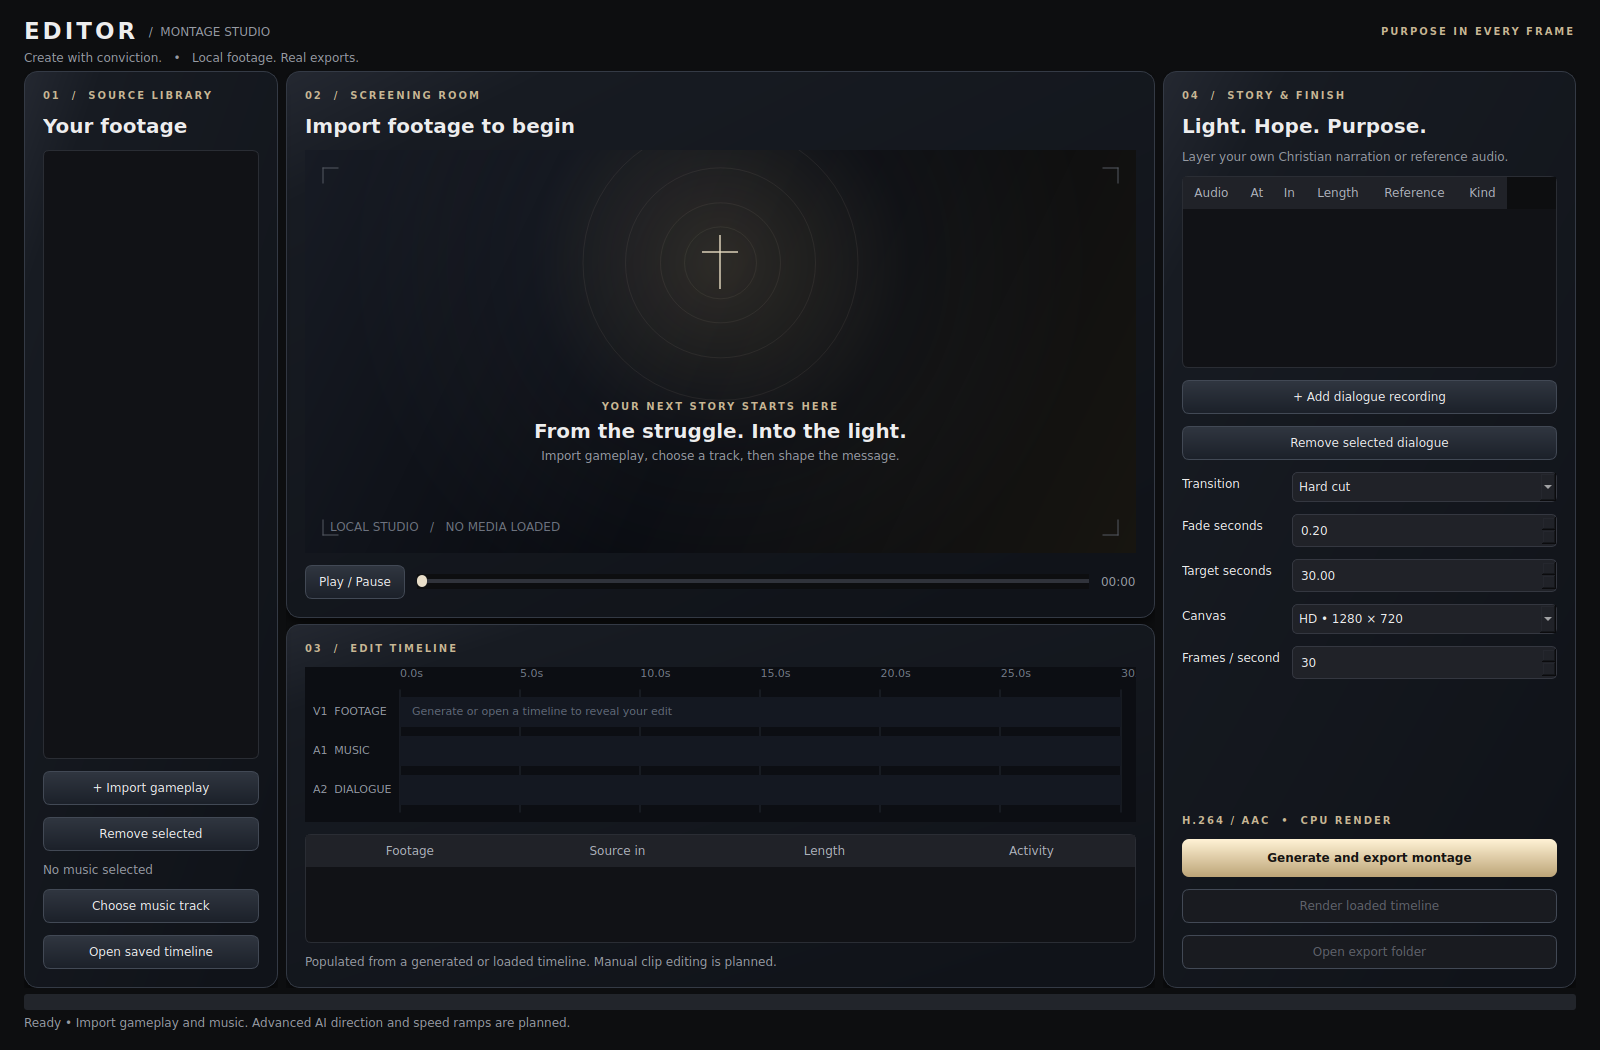
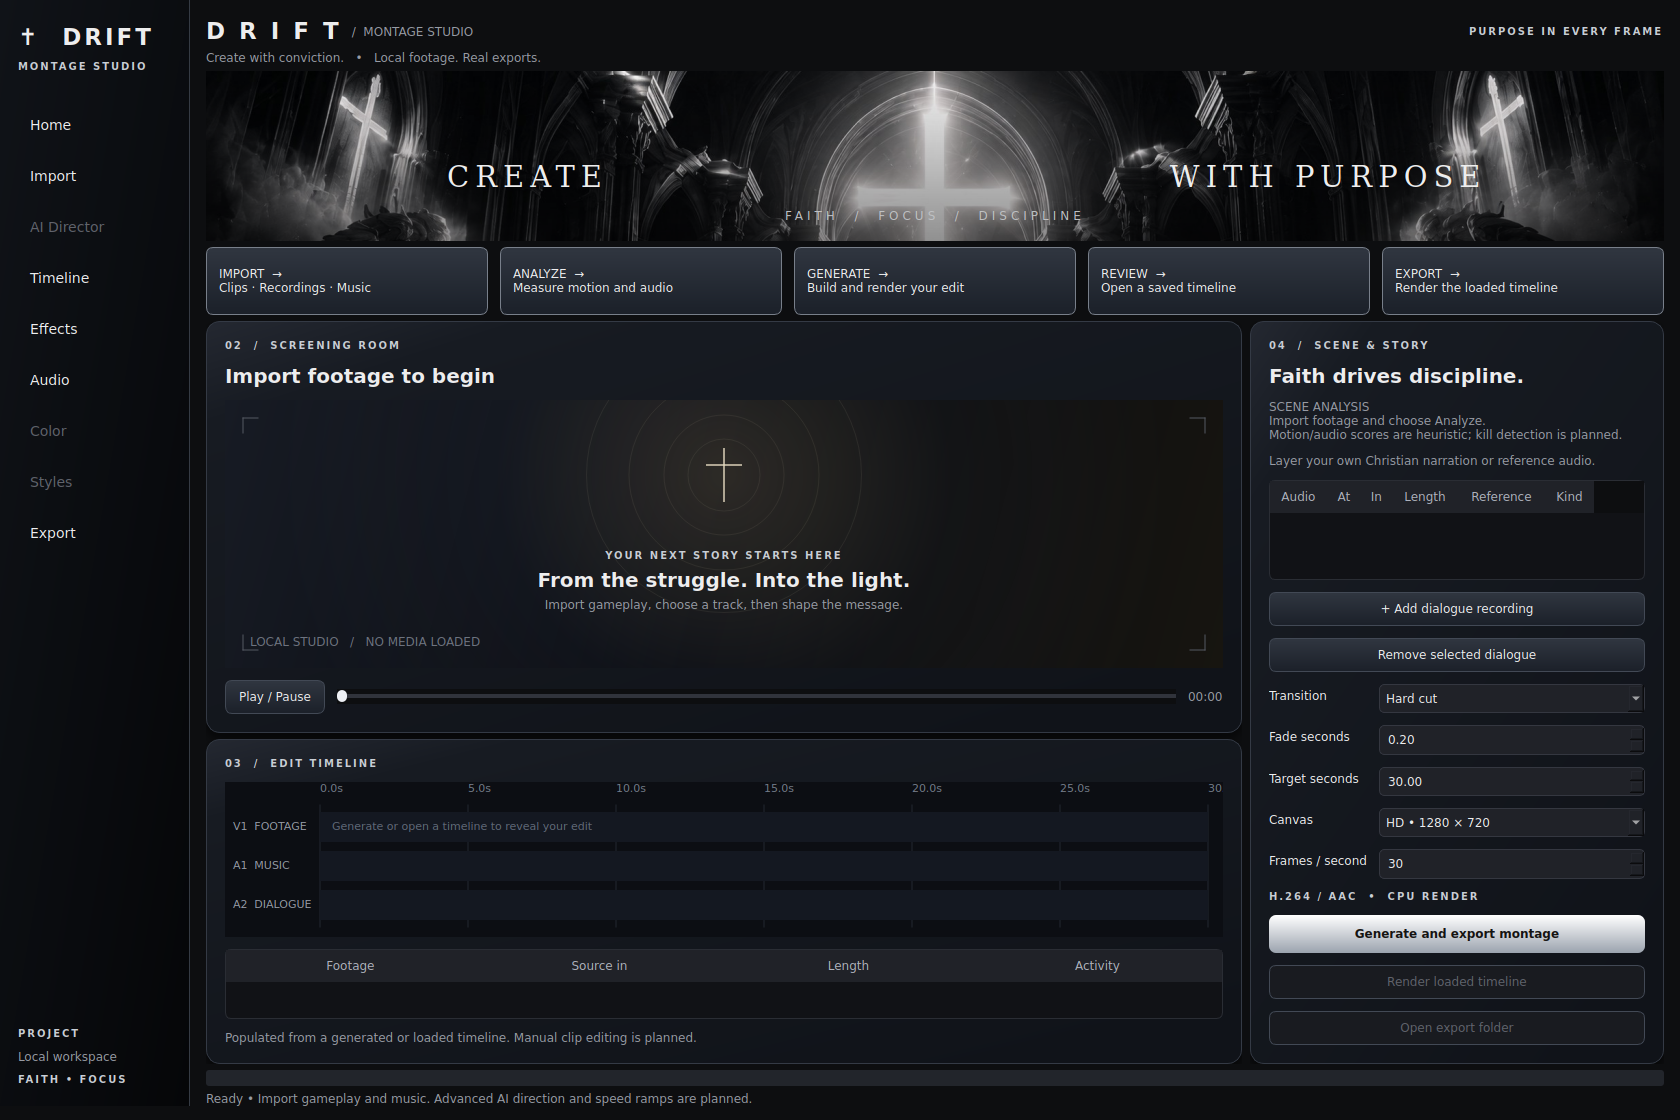
Rebuild DRIFT workspace around supplied cathedral UI reference

diff --git a/src/montage_editor/desktop.py b/src/montage_editor/desktop.py
@@ -12,27 +12,31 @@ from PySide6.QtWidgets import (QApplication, QMainWindow, QWidget, QVBoxLayout, 
     QComboBox, QTableWidget, QTableWidgetItem, QHeaderView, QSplitter, QProgressBar,
     QMessageBox, QSlider, QFrame, QStackedWidget, QGraphicsDropShadowEffect)
 
-from .workspace_widgets import CinemaCanvas, TimelineLanes
+from .workspace_widgets import CinemaCanvas, TimelineLanes, CathedralBanner
 from .config import Settings
-from .pipeline import Timeline, create_montage, render
+from .pipeline import Timeline, create_montage, render, probe, analyze_gameplay
 
 STYLE = '''
 QWidget { background:#0d0e10; color:#ededee; font-family:Inter,Segoe UI,sans-serif; font-size:12px; }
 QMainWindow {background:#090a0c;} QFrame#panel {background:qlineargradient(x1:0,y1:0,x2:0.8,y2:1,stop:0 #242831,stop:0.15 #171b22,stop:1 #101319);border:1px solid #343a45;border-radius:14px;}
 QLabel {background:transparent;} QLabel#brand {font-size:23px;font-weight:700;letter-spacing:3px;}
 QLabel#title {font-size:20px;font-weight:600;} QLabel#muted {color:#979ba4;}
-QLabel#eyebrow {color:#c9b794;font-size:10px;font-weight:600;letter-spacing:2px;}
+QLabel#eyebrow {color:#c9ced5;font-size:10px;font-weight:600;letter-spacing:2px;}
 QPushButton {background:qlineargradient(x1:0,y1:0,x2:0,y2:1,stop:0 #303640,stop:1 #1b2029);border:1px solid #424955;border-radius:7px;padding:9px 13px;}
 QPushButton:hover {background:#30333b;border-color:#777b86;}
 QPushButton:disabled {color:#60636c;background:#191b20;}
-QPushButton#primary {background:qlineargradient(x1:0,y1:0,x2:0,y2:1,stop:0 #fff2d5,stop:1 #bca477);color:#151311;font-weight:700;border:0;padding:12px;}
+QPushButton#primary {background:qlineargradient(x1:0,y1:0,x2:0,y2:1,stop:0 #ffffff,stop:1 #9ba3ae);color:#151311;font-weight:700;border:0;padding:12px;}
 QListWidget,QTableWidget {background:#111216;border:1px solid #2a2d34;border-radius:6px;alternate-background-color:#181a20;}
 QHeaderView::section {background:#202228;color:#aeb2bc;border:0;padding:7px;}
 QLineEdit,QSpinBox,QDoubleSpinBox,QComboBox {background:#202228;border:1px solid #343740;border-radius:5px;padding:6px;}
 QProgressBar {border:0;background:#22252b;border-radius:3px;height:5px;}
-QProgressBar::chunk {background:#c9b794;}
+QProgressBar::chunk {background:#c9ced5;}
 QSlider::groove:horizontal {height:4px;background:#30333b;}
-QSlider::handle:horizontal {background:#e8ddc8;width:10px;margin:-4px 0;border-radius:5px;}
+QSlider::handle:horizontal {background:#edf0f4;width:10px;margin:-4px 0;border-radius:5px;}
+QFrame#rail {background:qlineargradient(x1:0,y1:0,x2:1,y2:1,stop:0 #101318,stop:1 #050608);border-right:1px solid #353b44;}
+QPushButton#nav {text-align:left;background:transparent;border:0;padding:12px;font-size:14px;}
+QPushButton#nav:hover {background:#2a3038;border:1px solid #aeb4be;}
+QPushButton#workflow {border:1px solid #787f8a;font-size:12px;text-align:left;padding:12px;}
 QSplitter::handle {background:#0d0e10;width:8px;height:8px;}
 '''
 
@@ -74,25 +78,58 @@ class RenderJob(QThread):
 class Studio(QMainWindow):
     def __init__(self):
         super().__init__()
-        self.setWindowTitle('Editor • Montage Studio')
-        self.resize(1600,1050)
-        self.setMinimumSize(1100,760)
+        self.setWindowTitle('DRIFT • Montage Studio')
+        self.resize(1680,1120)
+        self.setMinimumSize(1280,950)
         self.music_path = None
         self.timeline = None
         self.last_output = None
         self.job = None
         root = QWidget()
         self.setCentralWidget(root)
-        layout = QVBoxLayout(root)
-        layout.setContentsMargins(24,18,24,20)
+        outer = QHBoxLayout(root)
+        outer.setContentsMargins(0,0,16,14); outer.setSpacing(16)
+        rail=QFrame(); rail.setObjectName('rail'); rail.setFixedWidth(190)
+        rail_layout=QVBoxLayout(rail); rail_layout.setContentsMargins(18,24,18,20); rail_layout.setSpacing(10)
+        rail_layout.addWidget(label('✝  DRIFT','brand'))
+        rail_layout.addWidget(label('MONTAGE STUDIO','eyebrow'))
+        rail_layout.addSpacing(22)
+        for name,callback in [('Home',lambda:self.screen.setCurrentIndex(0)),
+                              ('Import',self.import_media),('AI Director',None),
+                              ('Timeline',lambda:self.timeline_table.setFocus()),
+                              ('Effects',lambda:self.transition.setFocus()),
+                              ('Audio',self.import_music),('Color',None),('Styles',None),
+                              ('Export',self.export)]:
+            button=QPushButton(name);button.setObjectName('nav')
+            if callback:button.clicked.connect(callback)
+            else:button.setEnabled(False);button.setToolTip('Planned — not yet implemented')
+            rail_layout.addWidget(button)
+        rail_layout.addStretch()
+        rail_layout.addWidget(label('PROJECT','eyebrow'))
+        rail_layout.addWidget(label('Local workspace','muted'))
+        rail_layout.addWidget(label('FAITH • FOCUS','eyebrow'))
+        outer.addWidget(rail)
+        body=QWidget(); outer.addWidget(body,1)
+        layout = QVBoxLayout(body)
+        layout.setContentsMargins(0,18,0,0)
         header = QHBoxLayout()
-        header.addWidget(label('EDITOR', 'brand'))
+        header.addWidget(label('D R I F T', 'brand'))
         header.addWidget(label(' /  MONTAGE STUDIO', 'muted'))
         header.addStretch()
         header.addWidget(label('PURPOSE IN EVERY FRAME', 'eyebrow'))
         layout.addLayout(header)
         subtitle = label('Create with conviction.   •   Local footage. Real exports.', 'muted')
         layout.addWidget(subtitle)
+        self.banner=CathedralBanner(); layout.addWidget(self.banner)
+        steps=QHBoxLayout(); steps.setSpacing(12)
+        for title,detail,callback in [('IMPORT','Clips · Recordings · Music',self.import_media),
+                                      ('ANALYZE','Measure motion and audio',self.analyze_sources),
+                                      ('GENERATE','Build and render your edit',self.export),
+                                      ('REVIEW','Open a saved timeline',self.load_timeline),
+                                      ('EXPORT','Render the loaded timeline',self.replay_export)]:
+            card=QPushButton(title+'  →\n'+detail); card.setObjectName('workflow')
+            card.setMinimumHeight(68);card.clicked.connect(callback);steps.addWidget(card,1)
+        layout.addLayout(steps)
         workspace = QSplitter(Qt.Horizontal)
         layout.addWidget(workspace,1)
         assets,left = panel()
@@ -115,7 +152,9 @@ class Studio(QMainWindow):
         load = QPushButton('Open saved timeline')
         load.clicked.connect(self.load_timeline)
         left.addWidget(load)
+        self.assets_panel=assets
         workspace.addWidget(assets)
+        assets.hide()
         center = QWidget()
         column = QVBoxLayout(center)
         column.setContentsMargins(0,0,0,0)
@@ -124,7 +163,7 @@ class Studio(QMainWindow):
         self.preview_title = label('Import footage to begin','title')
         view.addWidget(self.preview_title)
         self.video = QVideoWidget()
-        self.video.setMinimumHeight(280)
+        self.video.setMinimumHeight(210)
         self.screen = QStackedWidget()
         empty = CinemaCanvas(); empty_layout = QVBoxLayout(empty)
         empty_layout.addStretch(3)
@@ -171,13 +210,15 @@ class Studio(QMainWindow):
         column.addWidget(timeline,2)
         workspace.addWidget(center)
         inspector,right = panel()
-        right.addWidget(label('04  /  STORY & FINISH','eyebrow'))
-        right.addWidget(label('Light. Hope. Purpose.','title'))
+        right.addWidget(label('04  /  SCENE & STORY','eyebrow'))
+        right.addWidget(label('Faith drives discipline.','title'))
+        self.analysis_label=label('SCENE ANALYSIS\nImport footage and choose Analyze.\nMotion/audio scores are heuristic; kill detection is planned.','muted')
+        self.analysis_label.setWordWrap(True);right.addWidget(self.analysis_label)
         right.addWidget(label('Layer your own Christian narration or reference audio.','muted'))
         self.dialogue = QTableWidget(0,6)
         self.dialogue.setHorizontalHeaderLabels(['Audio','At','In','Length','Reference','Kind'])
         self.dialogue.horizontalHeader().setSectionResizeMode(QHeaderView.ResizeToContents)
-        self.dialogue.setMinimumHeight(140)
+        self.dialogue.setMinimumHeight(100)
         self.dialogue.setToolTip('Editable timing in seconds. Reference is metadata, not a rendered caption.')
         right.addWidget(self.dialogue)
         add = QPushButton('+ Add dialogue recording')
@@ -215,7 +256,7 @@ class Studio(QMainWindow):
         self.open_button.setEnabled(False); self.open_button.clicked.connect(self.open_export)
         right.addWidget(self.open_button)
         workspace.addWidget(inspector)
-        workspace.setSizes([240,820,390])
+        workspace.setSizes([220,1000,400])
         self.progress = QProgressBar(); self.progress.setRange(0,1); self.progress.setValue(0); self.progress.setTextVisible(False)
         layout.addWidget(self.progress)
         self.status = label('Ready • Import gameplay and music. Advanced AI direction and speed ramps are planned.','muted')
@@ -223,13 +264,40 @@ class Studio(QMainWindow):
         self.footage.currentTextChanged.connect(self.preview_file)
         self.player.errorOccurred.connect(lambda error,message:self.status.setText('Preview: '+message))
 
+    def replay_export(self):
+        if self.timeline is None:
+            QMessageBox.information(self,'Open a project','Generate or open a timeline first.');return
+        self.export(replay=True)
+
+    def analyze_sources(self):
+        if self.job is not None:return
+        sources=[self.footage.item(i).text() for i in range(self.footage.count())]
+        if not sources:
+            QMessageBox.information(self,'Import footage','Add gameplay before analyzing.');return
+        settings=Settings()
+        def analyze():
+            return [candidate for path in sources for candidate in analyze_gameplay(probe(path),settings)]
+        self.job=RenderJob(analyze)
+        self.progress.setRange(0,0);self.status.setText('Analyzing source motion and audio activity…')
+        self.export_button.setEnabled(False);self.replay_button.setEnabled(False)
+        self.job.done.connect(self.show_analysis);self.job.failed.connect(self.failed);self.job.finished.connect(self.finished)
+        self.job.start()
+
+    def show_analysis(self,candidates):
+        ranked=sorted(candidates,key=lambda c:-c['score'])
+        if ranked:
+            top=ranked[0]
+            self.analysis_label.setText(f"SCENE ANALYSIS\n{len(ranked)} candidate moments\nTop activity: {top['score']:.3f} (not confidence)\n{Path(top['source']).name} at {top['time']:.2f}s\nSemantic game-event detection is planned.")
+        self.status.setText(f'Analysis complete • {len(ranked)} motion/audio candidate moments. Ready to generate.')
+
     def import_media(self):
         files,_ = QFileDialog.getOpenFileNames(self,'Import gameplay','','Video (*.mp4 *.mkv *.mov *.webm);;All files (*)')
         existing = {self.footage.item(i).text() for i in range(self.footage.count())}
         for path in files:
             if path not in existing:
                 self.footage.addItem(path); existing.add(path)
-        if self.footage.count(): self.footage.setCurrentRow(0)
+        if self.footage.count():
+            self.assets_panel.show(); self.footage.setCurrentRow(0)
 
     def import_music(self):
         path,_ = QFileDialog.getOpenFileName(self,'Choose music','','Audio (*.wav *.mp3 *.flac *.m4a);;All files (*)')

diff --git a/src/montage_editor/workspace_widgets.py b/src/montage_editor/workspace_widgets.py
@@ -82,3 +82,26 @@ class TimelineLanes(QWidget):
             block(cue.at,cue.duration,2,cue.reference or Path(cue.source).name,'#536960','#293e35')
         x=left+width*max(0,min(total,self.position))/total
         p.setPen(QPen(QColor('#f1e2c0'),2));p.drawLine(int(x),20,int(x),self.height()-5)
+
+
+class CathedralBanner(QWidget):
+    def __init__(self):
+        super().__init__()
+        from PySide6.QtGui import QPixmap
+        self.art=QPixmap(str(Path(__file__).parent/'resources'/'cathedral.jpg'))
+        self.setMinimumHeight(170);self.setMaximumHeight(220)
+
+    def paintEvent(self,event):
+        p=QPainter(self);p.setRenderHint(QPainter.Antialiasing)
+        if not self.art.isNull():
+            scaled=self.art.scaled(self.size(),Qt.KeepAspectRatioByExpanding,Qt.SmoothTransformation)
+            p.drawPixmap((self.width()-scaled.width())//2,0,scaled)
+        else:p.fillRect(self.rect(),QColor('#101216'))
+        shade=QLinearGradient(0,0,0,self.height());shade.setColorAt(0,QColor(0,0,0,10));shade.setColorAt(1,QColor(0,0,0,110))
+        p.fillRect(self.rect(),shade)
+        p.setPen(QColor('#eeeeee'));font=QFont('Georgia',22);font.setLetterSpacing(QFont.AbsoluteSpacing,6);p.setFont(font)
+        y=self.height()*.5
+        p.drawText(QRectF(30,y,self.width()*.4,42),Qt.AlignCenter,'CREATE')
+        p.drawText(QRectF(self.width()*.58,y,self.width()*.4-30,42),Qt.AlignCenter,'WITH PURPOSE')
+        font=QFont('Segoe UI',9);font.setLetterSpacing(QFont.AbsoluteSpacing,4);p.setFont(font);p.setPen(QColor('#bfc1c4'))
+        p.drawText(QRectF(0,self.height()-38,self.width(),25),Qt.AlignCenter,'FAITH  /  FOCUS  /  DISCIPLINE')

diff --git a/tests/desktop_checks.py b/tests/desktop_checks.py
@@ -23,6 +23,15 @@ class DesktopTests(unittest.TestCase):
         self.assertEqual(window.story()['dialogue'][0]['at'],1)
         window.close()
 
+    def test_reference_workspace_and_real_analysis(self):
+        window=Studio()
+        self.assertFalse(window.banner.art.isNull())
+        window.show_analysis([dict(source='source.mp4',time=2.5,score=.8)])
+        self.assertIn('0.800 (not confidence)',window.analysis_label.text())
+        window.show(); self.app.processEvents()
+        self.assertFalse(window.grab().isNull())
+        window.close()
+
     def test_background_job_reports_failures(self):
         errors=[]
         def fail(): raise ValueError('invalid media')

diff --git a/docs/DEVELOPMENT_LOG.md b/docs/DEVELOPMENT_LOG.md
@@ -41,3 +41,10 @@
 - Added code-native cinematic light/cross canvas, concentric depth details, gradient panel surfaces, soft shadows and raised controls. No generated fake footage.
 - Added actual video/music/dialogue timeline lanes with time ruler and export seek. Empty lanes are clearly empty; no fabricated waveform or events. Added module launch support (`python -m montage_editor.desktop`).
 - Offscreen desktop tests pass; refreshed screenshot inspected. Audible playback and Windows remain unvalidated.
+
+## 2026-10-01 — User-supplied DRIFT reference redesign
+- Read uploaded image(5).png directly from scratch. Adopted DRIFT branding, left navigation, cathedral/cross hero, monochrome raised surfaces, five workflow cards, wide preview and scene/story inspector.
+- Generated original cathedral backdrop using built-in image generation with the user's image as style/composition reference, not an edit target. Packaged compressed resource at src/montage_editor/resources/cathedral.jpg; user reference itself is not committed.
+- Implemented separate background Analyze action returning real motion/audio candidates and displaying top activity/time; score explicitly not semantic confidence. Preserved working import/music/dialogue/render workflows. Unimplemented AI Director/Color/Styles navigation disabled.
+- Source library reveals after media import; initial home layout prioritizes the reference composition. Actual timeline lanes remain connected to stored data. Empty preview is clearly empty; no fabricated gameplay/waveforms.
+- Validation: three offscreen desktop checks passed; compileall passed; built wheel and verified packaged cathedral asset; final screenshot inspected. Windows/device playback remain unvalidated. Advanced effect and semantic AI controls from reference still planned.

diff --git a/docs/UI_ASSETS.md b/docs/UI_ASSETS.md
@@ -1,0 +1,7 @@
+# UI assets
+
+`src/montage_editor/resources/cathedral.jpg` is an original generated application backdrop, created using the built-in image-generation tool. It is package data, not a screenshot of the reference or external gameplay. The user-provided image was a style/composition reference only and is not committed.
+
+Generation prompt: “Generate just the cinematic cathedral artwork, NO UI, NO TEXT, NO BUTTONS, NO LETTERS, no watermark. Wide panoramic monochrome gothic cathedral interior, ornate soaring arches and weathered angel statues at both sides, massive luminous white Christian cross centered deep in nave, mist, volumetric rays, tiny human silhouette for scale, polished black and silver tones, dramatic deep blacks. Similar atmospheric realism to the top cathedral hero in the reference. Preserve broad darker zones on either side of cross for overlay headings. Detailed high-end film matte painting. Wide landscape composition.”
+
+`docs/ui-preview.png` is a screenshot of the actual desktop home layout without user footage, not an AI-generated screenshot. Regenerate using an offscreen QApplication and Studio.grab(). The home backdrop is decorative; it is not exported into gameplay montages automatically.

diff --git a/README.md b/README.md
@@ -65,3 +65,5 @@ Desktop controls are tested offscreen on Linux; physical audio playback and Wind
 ![Desktop workspace](docs/ui-preview.png)
 
 Linux desktop dependencies include `libegl1`, `libgl1`, `libopengl0` and `libpulse0` (Ubuntu packages). The desktop CI explicitly installs these; missing `libpulse0` caused the initial desktop run failure. Launch with `montage-studio` or `python -m montage_editor.desktop` after installing the desktop extra. The custom workspace now includes layered surfaces and actual timeline lanes. Timeline seeking applies to the rendered export, not unrendered source sequences.
+
+The desktop now follows the supplied DRIFT visual reference with an original packaged cathedral backdrop, monochrome navigation and five workflow cards. Analyze independently measures gameplay motion/audio and reports candidate activity (not kill confidence). The source library appears after import. AI Director, Color and Styles navigation are disabled until implemented.
